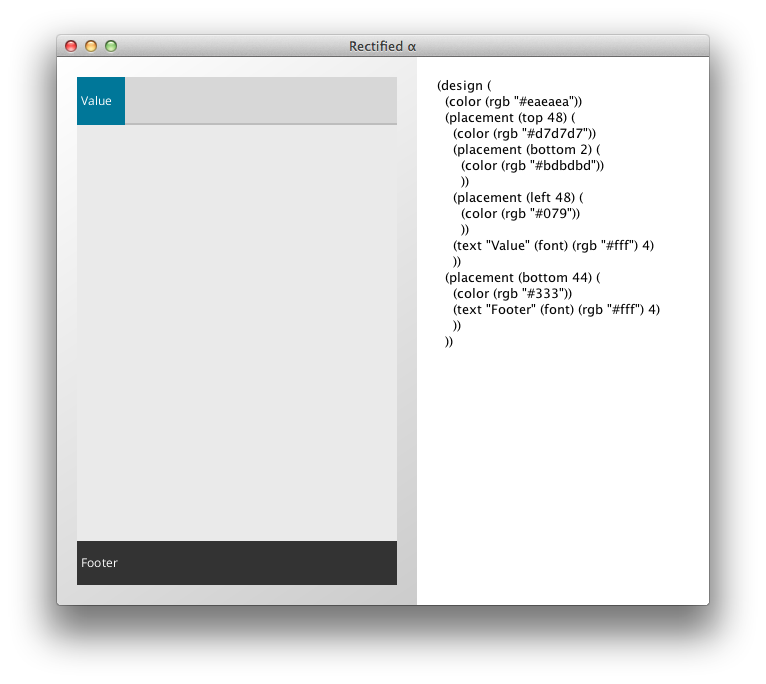
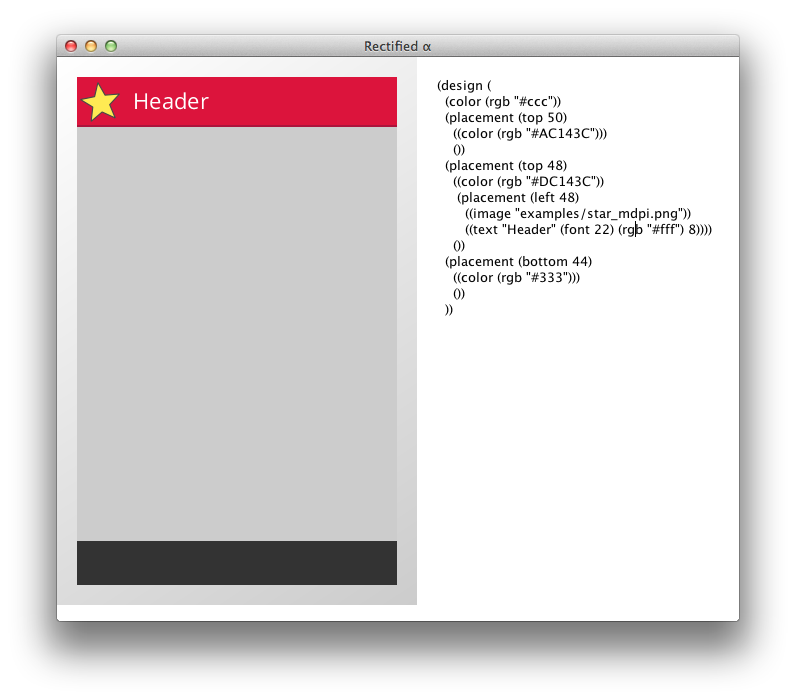
Add remainder areas to placement components

diff --git a/src/test/java/net/avh4/tools/rectified/model/PlacementComponentTest.java b/src/test/java/net/avh4/tools/rectified/model/PlacementComponentTest.java
@@ -20,16 +20,20 @@ public class PlacementComponentTest {
     @Mock private Placement placement;
     @Mock private Component c1;
     @Mock private Component c2;
+    @Mock private Component c3;
+    @Mock private Component c4;
     @Mock private Rect bounds;
     @Mock private GraphicsOperations g;
     @Mock private FontMetricsService fm;
     @Mock private Rect placedBounds;
+    @Mock private Rect remainderBounds;
 
     @Before
     public void setUp() throws Exception {
         MockitoAnnotations.initMocks(this);
         stub(placement.place(bounds)).toReturn(placedBounds);
-        subject = new PlacementComponent(placement, Arrays.asList(c1, c2));
+        stub(placement.remainder(bounds)).toReturn(remainderBounds);
+        subject = new PlacementComponent(placement, Arrays.asList(c1, c2), Arrays.asList(c3, c4));
     }
 
     @Test
@@ -43,5 +47,12 @@ public class PlacementComponentTest {
         subject.draw(bounds, g, fm);
         verify(c1).draw(placedBounds, g, fm);
         verify(c2).draw(placedBounds, g, fm);
+    }
+
+    @Test
+    public void shouldDrawRemainderComponentsInRemainderBounds() throws Exception {
+        subject.draw(bounds, g, fm);
+        verify(c3).draw(remainderBounds, g, fm);
+        verify(c4).draw(remainderBounds, g, fm);
     }
 }

diff --git a/src/main/java/net/avh4/tools/rectified/model/placement/PlacementComponent.java b/src/main/java/net/avh4/tools/rectified/model/placement/PlacementComponent.java
@@ -8,16 +8,22 @@ import net.avh4.tools.rectified.model.Component;
 public class PlacementComponent implements Component {
     private final Placement placement;
     private final Iterable<Component> components;
+    private final Iterable<Component> remainderComponents;
 
-    public PlacementComponent(Placement placement, Iterable<Component> components) {
+    public PlacementComponent(Placement placement, Iterable<Component> components, Iterable<Component> remainderComponents) {
         this.placement = placement;
         this.components = components;
+        this.remainderComponents = remainderComponents;
     }
 
     @Override public void draw(Rect bounds, GraphicsOperations g, FontMetricsService fm) {
         Rect placedBounds = placement.place(bounds);
         for (Component component : components) {
             component.draw(placedBounds, g, fm);
+        }
+        Rect remainderBounds = placement.remainder(bounds);
+        for (Component component : remainderComponents) {
+            component.draw(remainderBounds, g, fm);
         }
     }
 

diff --git a/src/test/java/net/avh4/tools/rectified/parser/RectifiedLispContextTest.java b/src/test/java/net/avh4/tools/rectified/parser/RectifiedLispContextTest.java
@@ -10,6 +10,7 @@ import org.junit.Before;
 import org.junit.Test;
 import org.junit.runner.RunWith;
 import org.mockito.Mock;
+import org.mockito.Mockito;
 import org.mockito.MockitoAnnotations;
 
 import static net.avh4.tools.rectified.test.support.Assertions.assertThat;
@@ -56,7 +57,9 @@ public class RectifiedLispContextTest {
 
         @Test
         public void shouldParsePlacementComponent() throws Exception {
-            checkParse(new PlacementComponent(placement, components), "placement", placement, components);
+            Iterable<Component> remainderComponents = Mockito.mock(Iterable.class);
+            checkParse(new PlacementComponent(placement, components, remainderComponents),
+                    "placement", placement, components, remainderComponents);
         }
 
         @Test

diff --git a/src/main/java/net/avh4/tools/rectified/model/placement/TopPlacement.java b/src/main/java/net/avh4/tools/rectified/model/placement/TopPlacement.java
@@ -9,6 +9,14 @@ public class TopPlacement implements Placement {
         this.size = size;
     }
 
+    @Override public Rect place(Rect bounds) {
+        return bounds.top(size);
+    }
+
+    @Override public Rect remainder(Rect bounds) {
+        return bounds.bottom(bounds.height() - size);
+    }
+
     @Override public String toString() {
         return "TopPlacement{" +
                 "size=" + size +
@@ -30,9 +38,5 @@ public class TopPlacement implements Placement {
     @Override
     public int hashCode() {
         return size;
-    }
-
-    @Override public Rect place(Rect bounds) {
-        return bounds.top(size);
     }
 }

diff --git a/src/test/java/net/avh4/tools/rectified/features/Steps.java b/src/test/java/net/avh4/tools/rectified/features/Steps.java
@@ -36,7 +36,7 @@ public class Steps {
     @When("^I add a constant-size region to the top$")
     public void I_add_a_constant_size_region_to_the_top() throws Throwable {
         app.codePanel().actions().replaceCode("" +
-                "(design ((color (rgb \"#DC143C\")) (placement (top 48) ((color (rgb \"#7171C6\"))))");
+                "(design ((color (rgb \"#DC143C\")) (placement (top 48) ((color (rgb \"#7171C6\"))) ()))");
     }
 
     @Then("^I see the new background color in the preview$")

diff --git a/src/test/java/net/avh4/tools/rectified/model/placement/BottomPlacementTest.java b/src/test/java/net/avh4/tools/rectified/model/placement/BottomPlacementTest.java
@@ -19,4 +19,9 @@ public class BottomPlacementTest {
     public void shouldPlace() throws Exception {
         assertThat(subject.place(Rect.ofSize(800, 600))).isEqualTo(Rect.fromTopLeft(0, 600 - 44, 800, 44));
     }
+
+    @Test
+    public void shouldHaveRemainder() throws Exception {
+        assertThat(subject.remainder(Rect.ofSize(800, 600))).isEqualTo(Rect.ofSize(800, 600 - 44));
+    }
 }

diff --git a/src/test/java/net/avh4/tools/rectified/model/placement/RightPlacementTest.java b/src/test/java/net/avh4/tools/rectified/model/placement/RightPlacementTest.java
@@ -19,4 +19,9 @@ public class RightPlacementTest {
     public void shouldPlace() throws Exception {
         assertThat(subject.place(Rect.ofSize(800, 600))).isEqualTo(Rect.fromTopLeft(800 - 44, 0, 44, 600));
     }
+
+    @Test
+    public void shouldHaveRemainder() throws Exception {
+        assertThat(subject.remainder(Rect.ofSize(800, 600))).isEqualTo(Rect.ofSize(800-44, 600));
+    }
 }

diff --git a/src/test/java/net/avh4/tools/rectified/model/placement/LeftPlacementTest.java b/src/test/java/net/avh4/tools/rectified/model/placement/LeftPlacementTest.java
@@ -19,4 +19,9 @@ public class LeftPlacementTest {
     public void shouldPlace() throws Exception {
         assertThat(subject.place(Rect.ofSize(800, 600))).isEqualTo(Rect.ofSize(44, 600));
     }
+
+    @Test
+    public void shouldHaveRemainder() throws Exception {
+        assertThat(subject.remainder(Rect.ofSize(800, 600))).isEqualTo(Rect.fromTopLeft(44, 0, 800-44, 600));
+    }
 }

diff --git a/src/test/java/net/avh4/tools/rectified/model/placement/TopPlacementTest.java b/src/test/java/net/avh4/tools/rectified/model/placement/TopPlacementTest.java
@@ -19,4 +19,9 @@ public class TopPlacementTest {
     public void shouldPlace() throws Exception {
         assertThat(subject.place(Rect.ofSize(800, 600))).isEqualTo(Rect.ofSize(800, 48));
     }
+
+    @Test
+    public void shouldHaveRemainder() throws Exception {
+        assertThat(subject.remainder(Rect.ofSize(800, 600))).isEqualTo(Rect.fromTopLeft(0, 48, 800, 600-48));
+    }
 }

diff --git a/src/main/java/net/avh4/tools/rectified/model/placement/BottomPlacement.java b/src/main/java/net/avh4/tools/rectified/model/placement/BottomPlacement.java
@@ -13,6 +13,10 @@ public class BottomPlacement implements Placement {
         return bounds.bottom(size);
     }
 
+    @Override public Rect remainder(Rect bounds) {
+        return bounds.top(bounds.height() - size);
+    }
+
     @Override public String toString() {
         return "BottomPlacement{" +
                 "size=" + size +

diff --git a/src/main/java/net/avh4/tools/rectified/model/placement/RightPlacement.java b/src/main/java/net/avh4/tools/rectified/model/placement/RightPlacement.java
@@ -13,6 +13,10 @@ public class RightPlacement implements Placement {
         return bounds.right(size);
     }
 
+    @Override public Rect remainder(Rect bounds) {
+        return bounds.left(bounds.width() - size);
+    }
+
     @Override public String toString() {
         return "RightPlacement{" +
                 "size=" + size +

diff --git a/src/main/java/net/avh4/tools/rectified/model/placement/LeftPlacement.java b/src/main/java/net/avh4/tools/rectified/model/placement/LeftPlacement.java
@@ -13,6 +13,10 @@ public class LeftPlacement implements Placement {
         return bounds.left(size);
     }
 
+    @Override public Rect remainder(Rect bounds) {
+        return bounds.right(bounds.width() - size);
+    }
+
     @Override public String toString() {
         return "LeftPlacement{" +
                 "size=" + size +
